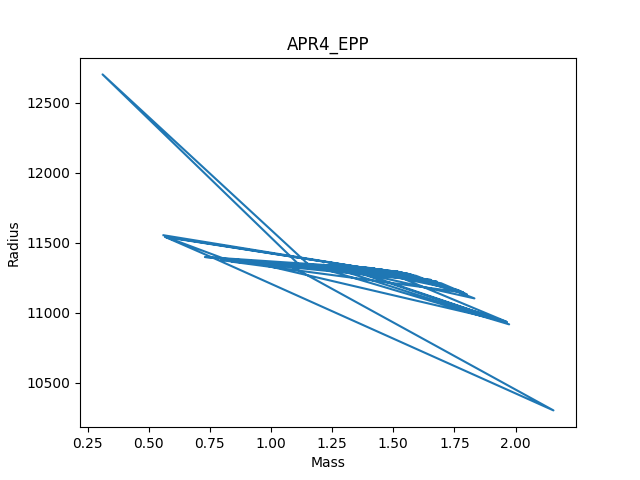
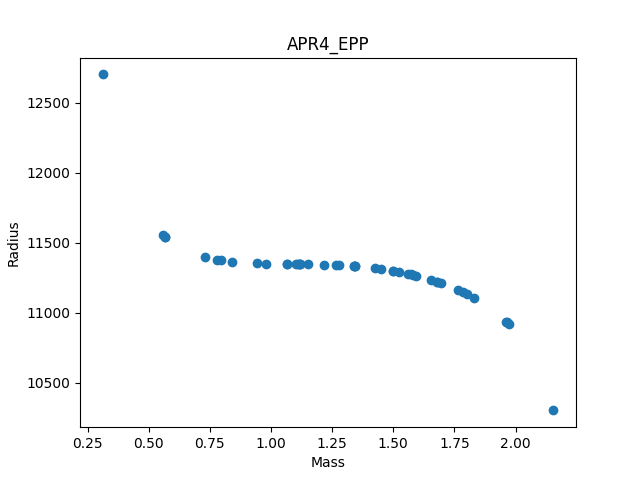
Testing plot functions

diff --git a/ns_eos_dist.py b/ns_eos_dist.py
@@ -49,7 +49,7 @@ def plot_radii(datafile, name):
         masses = data[:,0]
         radii = data[:,1]
 
-        pl.plot(masses,radii)
+        pl.scatter(masses,radii)
         pl.xlabel("Mass")
         pl.ylabel("Radius")
         pl.title(name)
@@ -61,7 +61,7 @@ def plot_lambdas(datafile, name, N):
     data = np.loadtxt(datafile)
     masses = data[:,0]
     Lambdas = data[:,2]
-    pl.plot(masses,Lambdas)
+    pl.scatter(masses,Lambdas,label=name)
 
     all_eos = lalsim.SimNeutronStarEOSNames
     for eos_name in all_eos:
@@ -87,5 +87,7 @@ def plot_lambdas(datafile, name, N):
                 working_masses.append(m)
             except RuntimeError:
                 break
-        pl.plot(masses,working_Lambdas)
+        pl.plot(masses,working_Lambdas,label=eos)
+    pl.title("Lambdas vs Masses")
+    pl.legend()
     pl.savefig("NICER_mock_data/lambdas_plots/{}.png".format(name))
